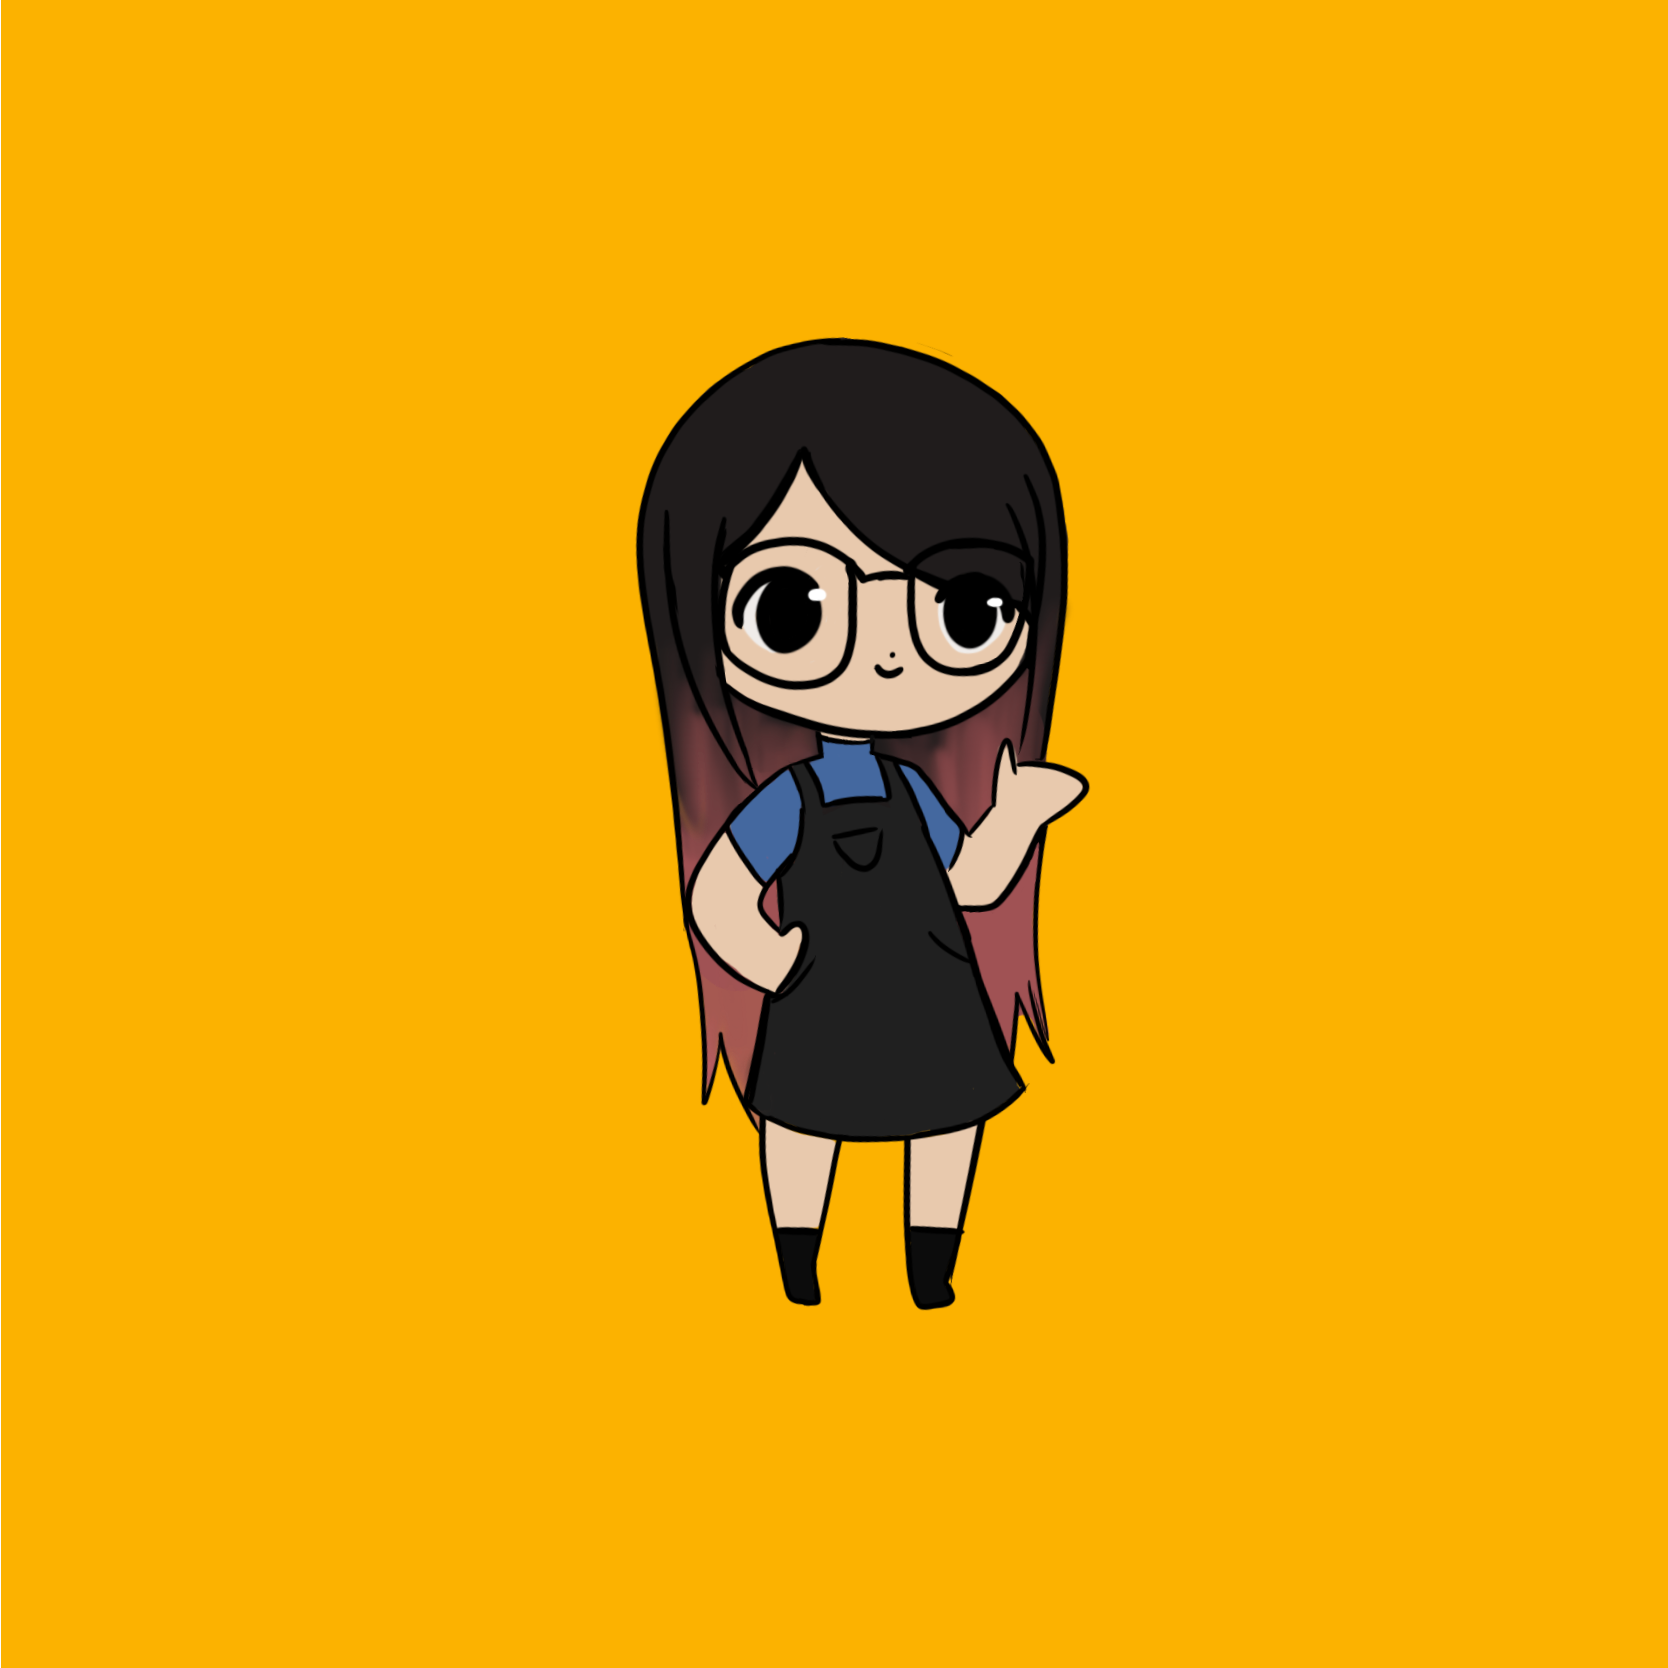
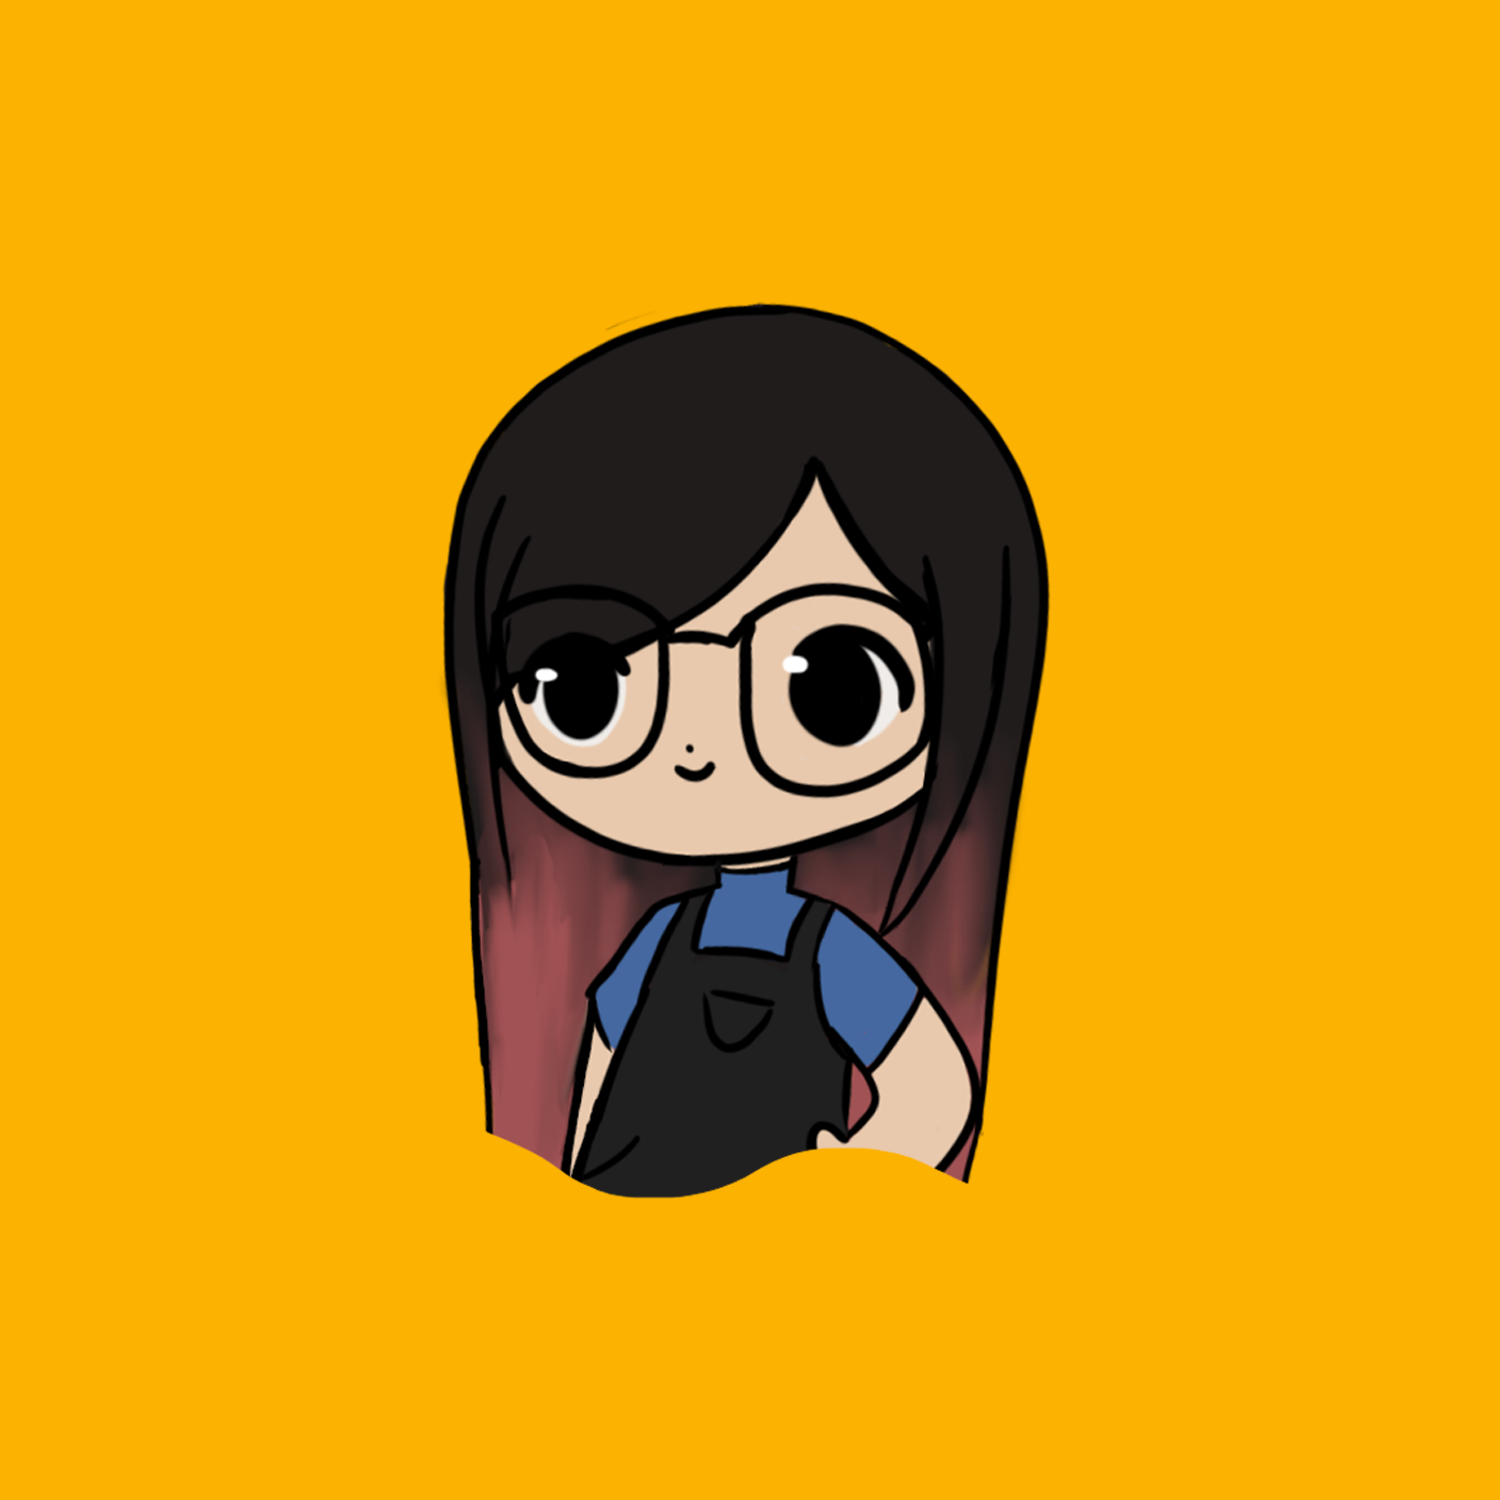
styling about me

Changed region(s): [[0.276, 0.2147, 0.7053, 0.7973], [0.46, 0.184, 0.552, 0.2147], [0.552, 0.2147, 0.6133, 0.2453]]

diff --git a/pages/details.html b/pages/details.html
@@ -74,7 +74,7 @@
                     </p>
                 </div>
             </section>
-            <section class="row g-0 justify-content-center">
+            <section class="row justify-content-center">
                 <div class="col-md-3">
                     <img class="quiz-tile" src="../img/autumn-tomato.jpg" alt="autumn leaves">
                     <p class="bold-caption">Crunchy autumn leaves</p>
@@ -105,19 +105,19 @@
                 </div>
 
                 <div class="col-md-3">
-                    <img class="chef-img" src="../img/chefwilliam.png" alt="chibi picture of William">
+                    <img class="chef-img" src="../img/chefwill.png" alt="chibi picture of William">
                     <p class="bold-caption">Chef William</p>
                     <p class="chef-desc">The newest member of our event planning team! Will's our go-to guy for puzzles and scavenger hunts, even though his cryptography brain makes the puzzles too hard for the rest of us sometimes. He likes cabin trips, BBQs, paddleboarding, and other dad activities.</p>
                 </div>
                 <div class="col-md-3">
                     <img class="chef-img" src="../img/chefnayana.png" alt="chibi picture of William">
                     <p class="bold-caption">Chef Nayana (me!)</p>
-                    <p class="chef-desc">The newest member of our event planning team! Will's our go-to guy for puzzles and scavenger hunts, even though his cryptography brain makes the puzzles too hard for the rest of us sometimes. He likes cabin trips, BBQs, paddleboarding, and other dad activities.</p>
+                    <p class="chef-desc">My reputation as the group's "planner" comes from me wanting a group of friends to have fun with. I picked some people who I thought would get along, invited them all to my graduation party, and we've been traveling together ever since. <a href="about.html">Learn more about me.</a></p>
                 </div>
                 <div class="col-md-3">
                     <img class="chef-img" src="../img/chefamanda.png" alt="chibi picture of William">
                     <p class="bold-caption">Chef Amanda</p>
-                    <p class="chef-desc">The newest member of our event planning team! Will's our go-to guy for puzzles and scavenger hunts, even though his cryptography brain makes the puzzles too hard for the rest of us sometimes. He likes cabin trips, BBQs, paddleboarding, and other dad activities.</p>
+                    <p class="chef-desc">Amanda's been helping with events since the first few. She's super reliable, organized, and has the same ambitious plans as I do. If that wasn't enough, she's also an amazing artist (she drew these chibi versions of us swimming in soup). Many of our trips wouldn't be possible without her.</p>
                 </div>
             </section>
         </main>

diff --git a/css/style.css b/css/style.css
@@ -143,7 +143,12 @@ p {
   .quiz-tile {
     width: 100%;
     object-fit: cover;
-    padding: 20px 20px 20px 0px;
+    margin-bottom: 10px;
+    transition: 0.5s;
+  }
+
+  .quiz-tile:hover {
+    outline: 8px solid #F1B533;
   }
 
   .bold-caption {
@@ -154,14 +159,16 @@ p {
 
   /*meet the chefs*/
   .chef-img {
-    margin: 20px;
-    width: 90%;
+    width: 100%;
+    margin: 20px 0;
+    padding: 15px;
     border: 15px double #919191;
+    background-color: #d8d8d8;
     border-radius: 50%;
   }
 
   .chef-desc {
     font-size: 0.9em;
     padding: 0;
-    margin: 0;
+    margin-bottom: 50px;
   }
